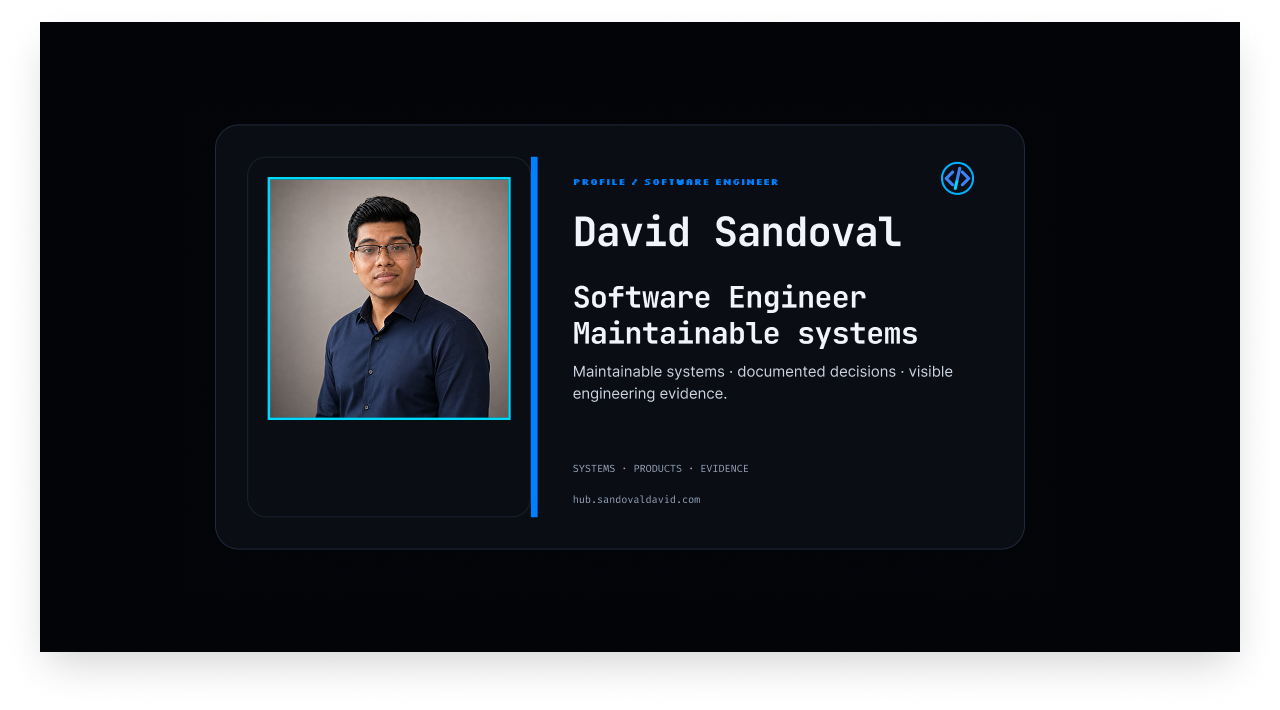
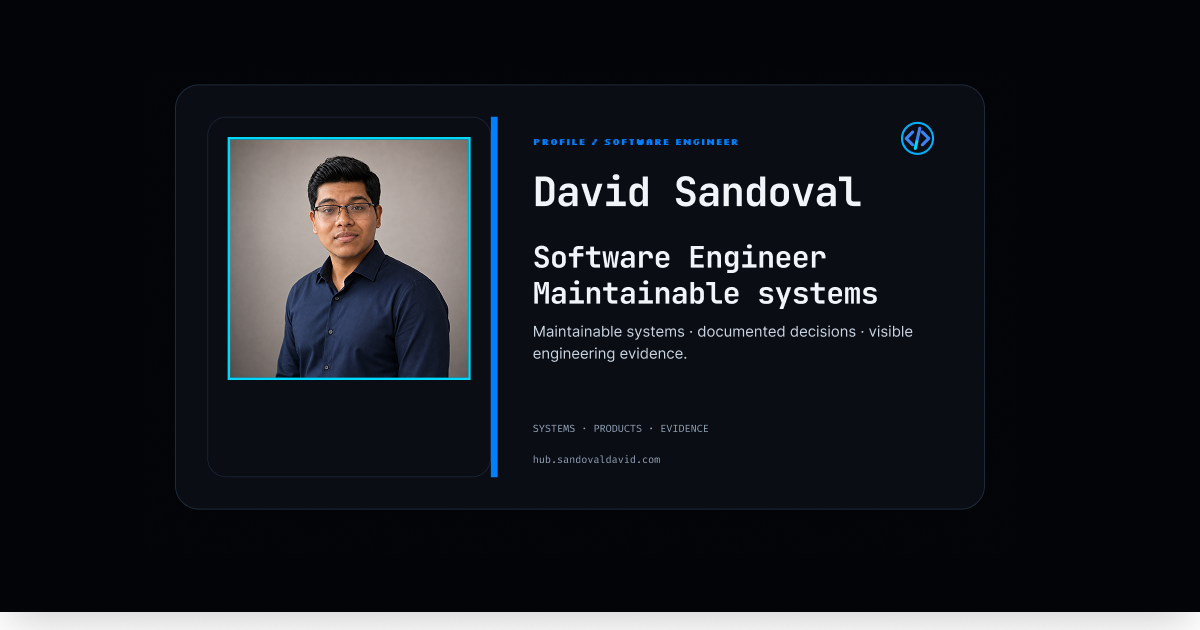
fix(profile-image): resync OG image size and portrait contract hash
The Figma export for og_dark.png/og_light.png landed at 1280x710
instead of the declared 1200x630 Open Graph size, so seo.test.js
failed the IHDR width check. Center-crop back to 1200x630 (ample
margin on every side, no card content touched).

tests/unit/portrait-identity.test.js still pinned the previous
approved perfil.webp git-blob SHA, so it failed against the new
intentionally-committed portrait. Updated the pinned hash to match.

diff --git a/tests/unit/portrait-identity.test.js b/tests/unit/portrait-identity.test.js
@@ -9,7 +9,7 @@ import { fileURLToPath } from 'node:url';
 const repositoryRoot = join(dirname(fileURLToPath(import.meta.url)), '../..');
 const approvedPortraitPath = join(repositoryRoot, 'public/profile/perfil.webp');
 const illustratedPortraitPath = join(repositoryRoot, 'public/profile/retrato-giblin.webp');
-const approvedPortfolioBlob = 'dfcf2ff042b1ebbb04fd45fac810d8c05796478d';
+const approvedPortfolioBlob = '8b0c1634cac7f4c1d08f7f4bc3a4b314762827f1';
 
 describe('Human-first portrait contract (#60)', () => {
 	test('uses the approved real portrait and removes the unused illustration', async () => {
